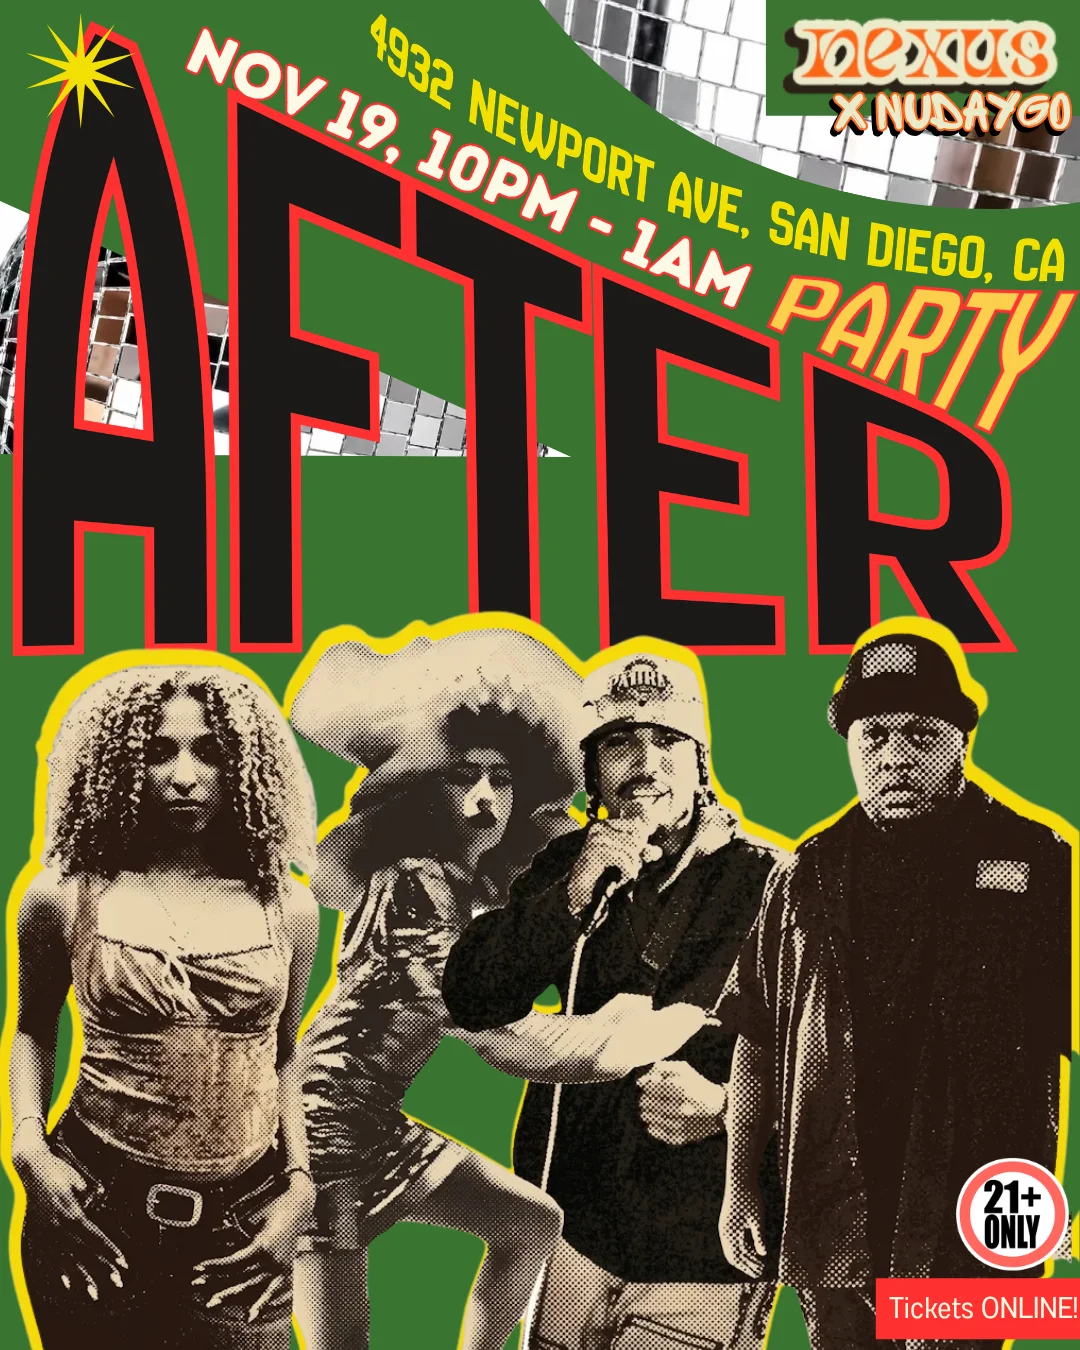
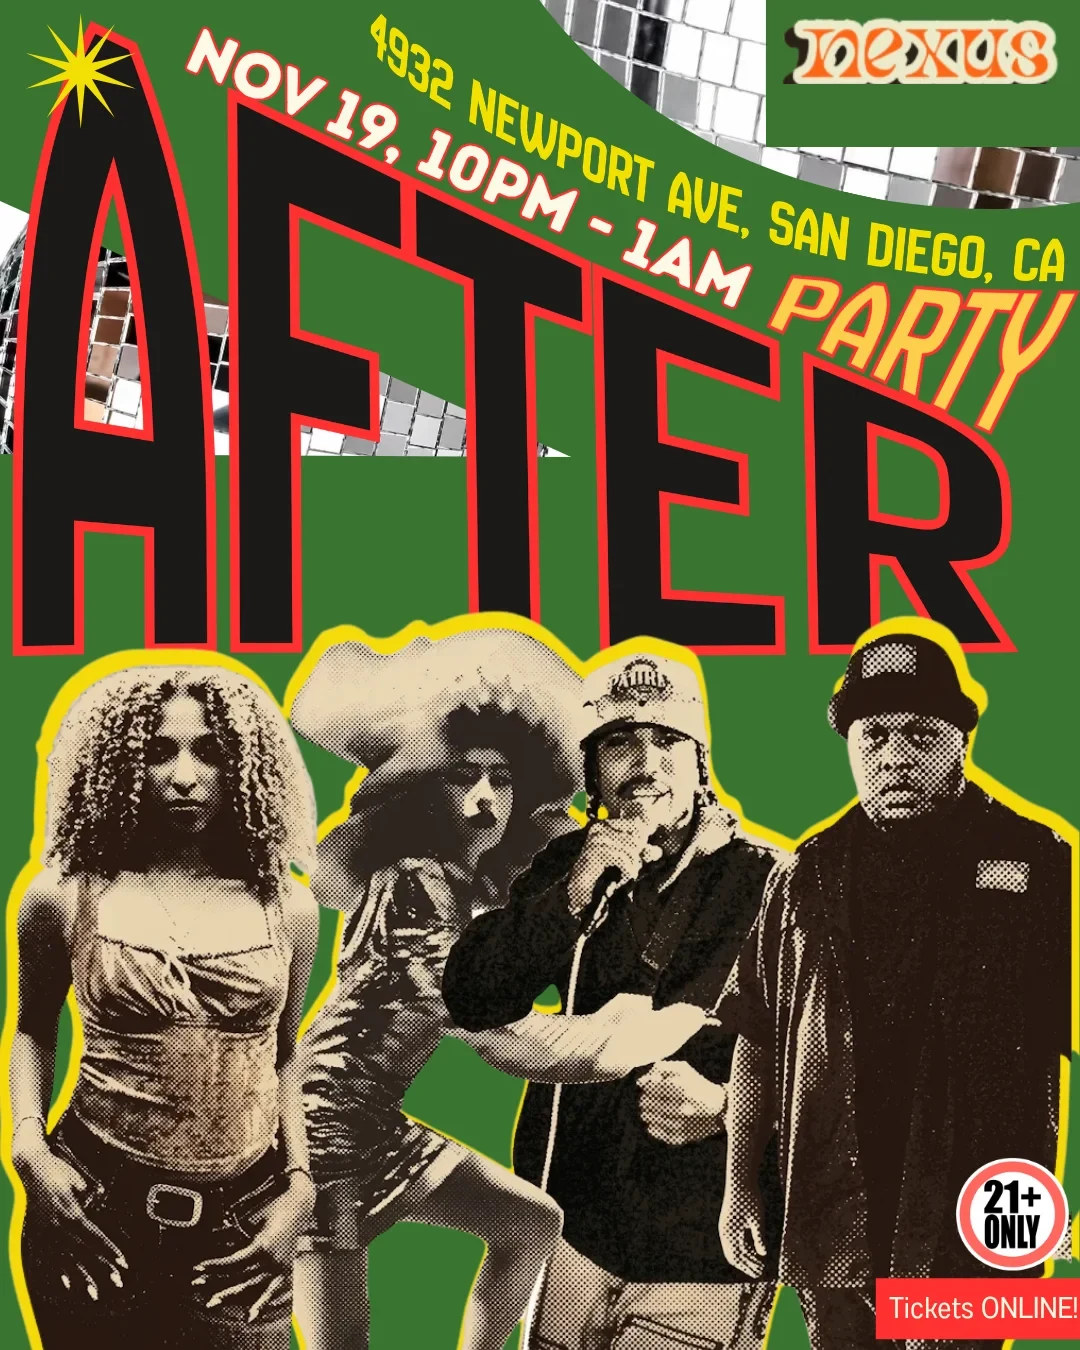
After party flyers: remove 'x NUDAYGO' from the corner badge (Nexus only)
Claude-Session: https://claude.ai/code/session_01EqMmcSfgt7Tgo6Kg6ahk3b

Changed region(s): [[0.7028, 0.0622, 1.0, 0.1244]]

diff --git a/index.html b/index.html
@@ -2255,7 +2255,7 @@ body.has-feature #feat-pills{display:flex;}
           <div class="bb-mini"><b>10:00</b> Doors &nbsp;·&nbsp; <b>10:30</b> Nur &nbsp;·&nbsp; <b>11:00</b> Rhonda Glez &nbsp;·&nbsp; <b>11:30</b> Nicole Hernandez &nbsp;·&nbsp; <b>12:00</b> ThaSpeakerBoxx</div>
         </div>
         <figure class="bb-flyer" style="margin:0;">
-          <img src="images/bass-and-bars/flyer-lineup.webp?v=3" width="1080" height="1350" alt="Bass and Bars After Party flyer: Nicole Hernandez, Rhonda Glez, Nur and ThaSpeakerBoxx. November 19, 10 PM to 1 AM, 4932 Newport Ave, San Diego." loading="lazy">
+          <img src="images/bass-and-bars/flyer-lineup.webp?v=5" width="1080" height="1350" alt="Bass and Bars After Party flyer: Nicole Hernandez, Rhonda Glez, Nur and ThaSpeakerBoxx. November 19, 10 PM to 1 AM, 4932 Newport Ave, San Diego." loading="lazy">
         </figure>
       </section>
 
@@ -2263,7 +2263,7 @@ body.has-feature #feat-pills{display:flex;}
         <div class="bb-tix" id="bb-tickets">
           <div class="bb-card bb-card--hot">
             <div class="bb-faces" aria-label="Live sets from Nur, Rhonda Glez, Nicole Hernandez and ThaSpeakerBoxx">
-              <img src="images/bass-and-bars/nur.webp?v=2" alt=""><img src="images/bass-and-bars/rhonda-glez.webp" alt=""><img src="images/bass-and-bars/nicole-hernandez.webp" alt=""><img src="images/bass-and-bars/thaspeakerboxx.webp?v=3" alt="">
+              <img src="images/bass-and-bars/nur.webp?v=5" alt=""><img src="images/bass-and-bars/rhonda-glez.webp?v=5" alt=""><img src="images/bass-and-bars/nicole-hernandez.webp?v=5" alt=""><img src="images/bass-and-bars/thaspeakerboxx.webp?v=5" alt="">
               <span><b>4 live sets</b> · Nur, Rhonda Glez, Nicole Hernandez, ThaSpeakerBoxx</span>
             </div>
             <div class="bb-k" id="bb-tier">Tickets · Early Bird</div>
@@ -2296,10 +2296,10 @@ body.has-feature #feat-pills{display:flex;}
         <h3 class="bb-h">The Lineup</h3>
         <p class="bb-lede">Four sets, one room. MCs and DJs from the San Diego scene take Uppercuts. Doors at 10 PM, first set at 10:30 PM.</p>
         <div class="bb-lineup">
-          <a class="bb-act bb-act--link" href="https://linktr.ee/nurmusicofficial" target="_blank" rel="noopener" aria-label="Nur, set at 10:30 PM. Visit Linktree"><img src="images/bass-and-bars/nur.webp?v=2" alt="Nur" loading="lazy"><div><b>Nur</b><span>Set at 10:30 PM</span><em>Visit Linktree →</em></div></a>
-          <a class="bb-act bb-act--link" href="https://www.instagram.com/rhondaglez/" target="_blank" rel="noopener" aria-label="Rhonda Glez, set at 11:00 PM. Instagram"><img src="images/bass-and-bars/rhonda-glez.webp" alt="Rhonda Glez" loading="lazy"><div><b>Rhonda Glez</b><span>Set at 11:00 PM</span><em>Instagram →</em></div></a>
-          <a class="bb-act bb-act--link" href="https://www.instagram.com/n3xus.now/" target="_blank" rel="noopener" aria-label="Nicole Hernandez, set at 11:30 PM"><img src="images/bass-and-bars/nicole-hernandez.webp" alt="Nicole Hernandez" loading="lazy"><div><b>Nicole Hernandez</b><span>Set at 11:30 PM</span><em>New to the lineup →</em></div></a>
-          <a class="bb-act bb-act--link" href="https://www.thaspeakerboxx.com/" target="_blank" rel="noopener" aria-label="ThaSpeakerBoxx, set at 12:00 AM. Visit website"><img src="images/bass-and-bars/thaspeakerboxx.webp?v=3" alt="ThaSpeakerBoxx" loading="lazy"><div><b>ThaSpeakerBoxx</b><span>Set at 12:00 AM</span><em>Visit website →</em></div></a>
+          <a class="bb-act bb-act--link" href="https://linktr.ee/nurmusicofficial" target="_blank" rel="noopener" aria-label="Nur, set at 10:30 PM. Visit Linktree"><img src="images/bass-and-bars/nur.webp?v=5" alt="Nur" loading="lazy"><div><b>Nur</b><span>Set at 10:30 PM</span><em>Visit Linktree →</em></div></a>
+          <a class="bb-act bb-act--link" href="https://www.instagram.com/rhondaglez/" target="_blank" rel="noopener" aria-label="Rhonda Glez, set at 11:00 PM. Instagram"><img src="images/bass-and-bars/rhonda-glez.webp?v=5" alt="Rhonda Glez" loading="lazy"><div><b>Rhonda Glez</b><span>Set at 11:00 PM</span><em>Instagram →</em></div></a>
+          <a class="bb-act bb-act--link" href="https://www.instagram.com/n3xus.now/" target="_blank" rel="noopener" aria-label="Nicole Hernandez, set at 11:30 PM"><img src="images/bass-and-bars/nicole-hernandez.webp?v=5" alt="Nicole Hernandez" loading="lazy"><div><b>Nicole Hernandez</b><span>Set at 11:30 PM</span><em>New to the lineup →</em></div></a>
+          <a class="bb-act bb-act--link" href="https://www.thaspeakerboxx.com/" target="_blank" rel="noopener" aria-label="ThaSpeakerBoxx, set at 12:00 AM. Visit website"><img src="images/bass-and-bars/thaspeakerboxx.webp?v=5" alt="ThaSpeakerBoxx" loading="lazy"><div><b>ThaSpeakerBoxx</b><span>Set at 12:00 AM</span><em>Visit website →</em></div></a>
         </div>
 
         <h3 class="bb-h">The Night</h3>
